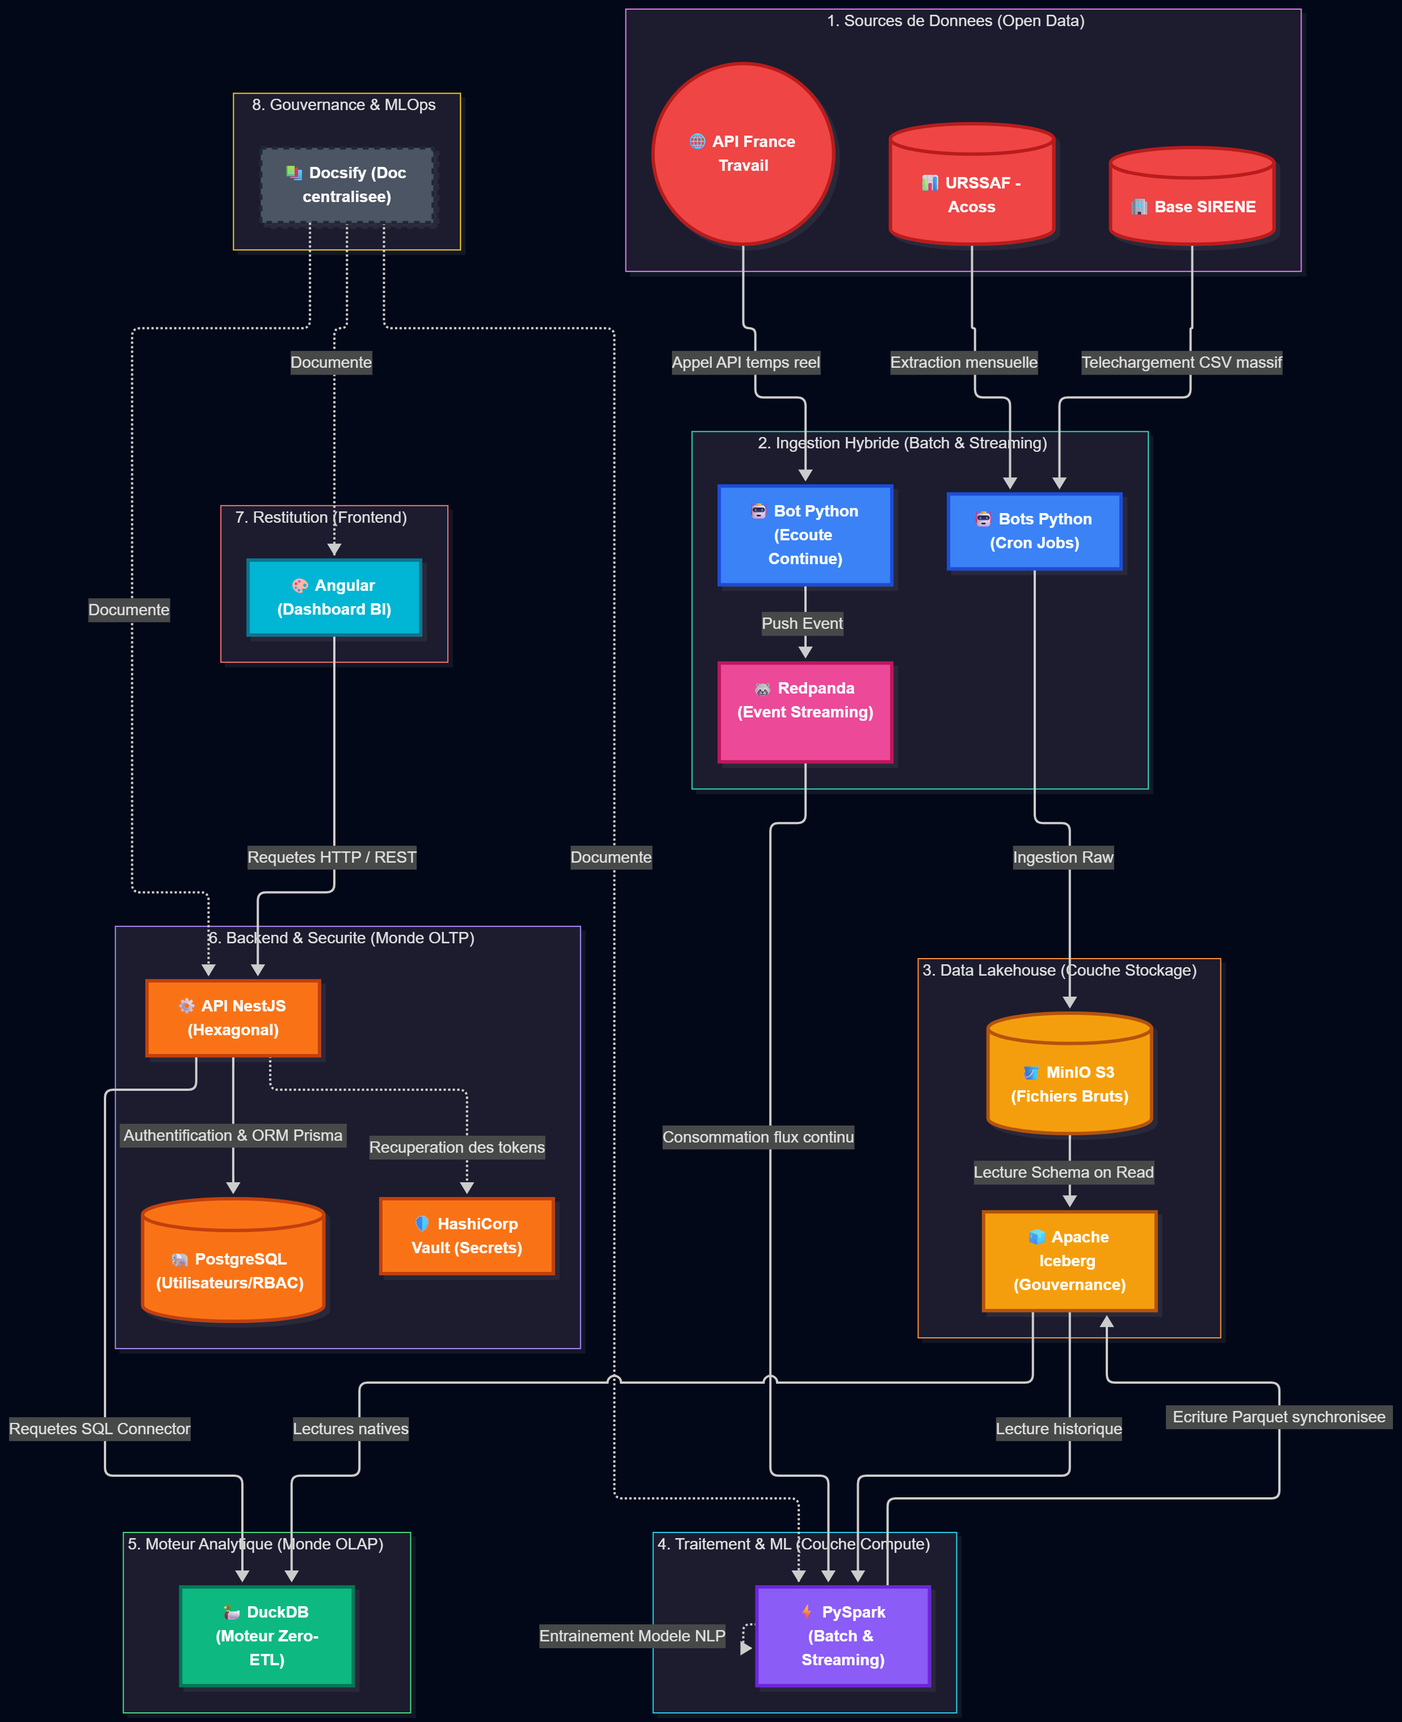
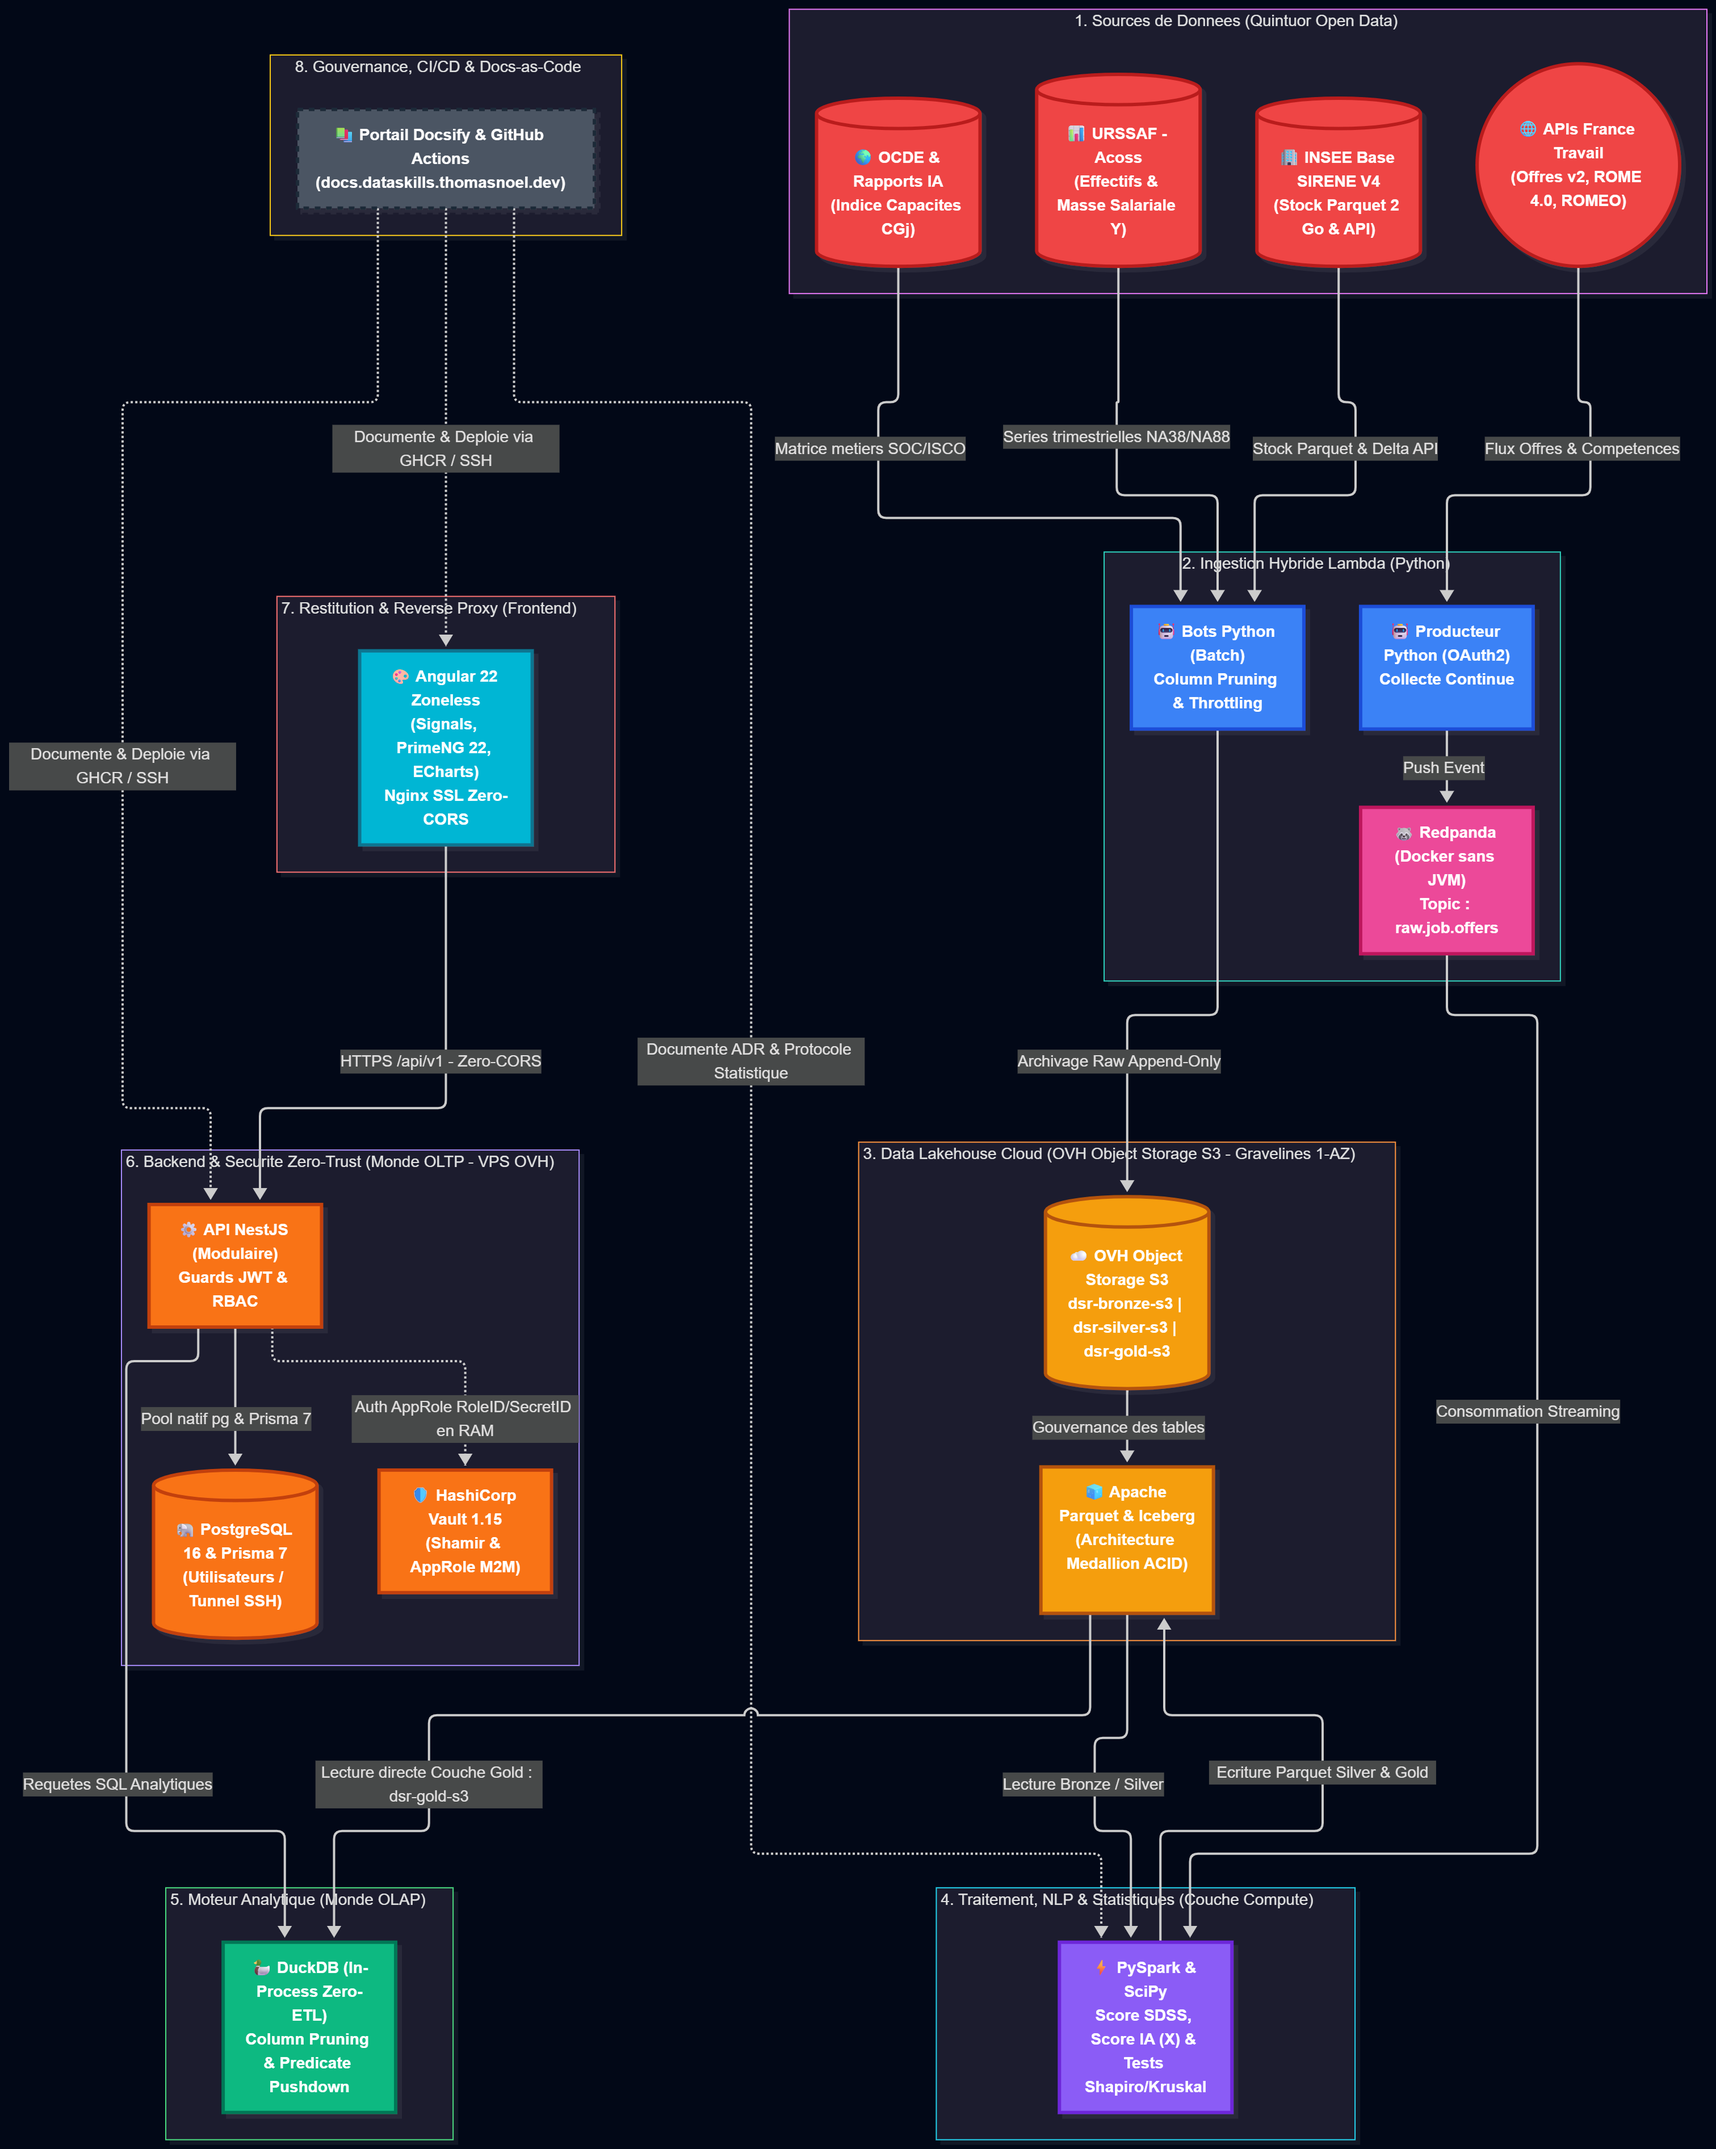
feat(docs): mise à jour du diagramme

diff --git a/docs/architecture/01.vue_ensemble.md b/docs/architecture/01.vue_ensemble.md
@@ -77,89 +77,6 @@ Voici la représentation visuelle du pipeline de mon projet, de l'ingestion de l
 
 ![Schéma Architecture C4](../../assets/img/diagramme_global.png)
 
-```mermaid
-graph TD
-    %% PALETTE DE COULEURS VIBRANTES
-    classDef source fill:#ef4444,stroke:#b91c1c,stroke-width:3px,color:#ffffff,font-weight:bold;
-    classDef ingest fill:#3b82f6,stroke:#1d4ed8,stroke-width:3px,color:#ffffff,font-weight:bold;
-    classDef stream fill:#ec4899,stroke:#be185d,stroke-width:3px,color:#ffffff,font-weight:bold;
-    classDef storage fill:#f59e0b,stroke:#b45309,stroke-width:3px,color:#ffffff,font-weight:bold;
-    classDef compute fill:#8b5cf6,stroke:#6d28d9,stroke-width:3px,color:#ffffff,font-weight:bold;
-    classDef serving fill:#10b981,stroke:#047857,stroke-width:3px,color:#ffffff,font-weight:bold;
-    classDef api fill:#f97316,stroke:#c2410c,stroke-width:3px,color:#ffffff,font-weight:bold;
-    classDef front fill:#06b6d4,stroke:#0e7490,stroke-width:3px,color:#ffffff,font-weight:bold;
-    classDef doc fill:#4b5563,stroke:#1f2937,stroke-width:3px,stroke-dasharray: 5 5,color:#ffffff,font-weight:bold;
-
-    subgraph "1. Sources de Donnees (Quintuor Open Data)"
-        S1[("📊 URSSAF - Acoss\n(Effectifs & Masse Salariale Y)")]:::source
-        S3[("🏢 INSEE Base SIRENE V4\n(Stock Parquet 2 Go & API)")]:::source
-        S4[("🌍 OCDE & Rapports IA\n(Indice Capacites CGj)")]:::source
-        S2(("🌐 APIs France Travail\n(Offres v2, ROME 4.0, ROMEO)")):::source
-    end
-
-    subgraph "2. Ingestion Hybride Lambda (Python)"
-        Bot["🤖 Bots Python (Batch)\nColumn Pruning & Throttling"]:::ingest
-        StreamBot["🤖 Producteur Python (OAuth2)\nCollecte Continue"]:::ingest
-        Redpanda["🦝 Redpanda (Docker sans JVM)\nTopic : raw.job.offers"]:::stream
-    end
-
-    subgraph "3. Data Lakehouse Cloud (OVH Object Storage S3 - Gravelines 1-AZ)"
-        OVHS3[("☁ OVH Object Storage S3\ndsr-bronze-s3 | dsr-silver-s3 | dsr-gold-s3")]:::storage
-        Iceberg["🧊 Apache Parquet & Iceberg\n(Architecture Medallion ACID)"]:::storage
-    end
-
-    subgraph "4. Traitement, NLP & Statistiques (Couche Compute)"
-        Spark["⚡ PySpark & SciPy\nScore SDSS, Score IA (X) & Tests Shapiro/Kruskal"]:::compute
-    end
-
-    subgraph "5. Moteur Analytique (Monde OLAP)"
-        Duck["🦆 DuckDB (In-Process Zero-ETL)\nColumn Pruning & Predicate Pushdown"]:::serving
-    end
-
-    subgraph "6. Backend & Securite Zero-Trust (Monde OLTP - VPS OVH)"
-        API["⚙ API NestJS (Modulaire)\nGuards JWT & RBAC"]:::api
-        PG[("🐘 PostgreSQL 16 & Prisma 7\n(Utilisateurs / Tunnel SSH)")]:::api
-        Vault["🛡 HashiCorp Vault 1.15\n(Shamir & AppRole M2M)"]:::api
-    end
-
-    subgraph "7. Restitution & Reverse Proxy (Frontend)"
-        UI["🎨 Angular 22 Zoneless\n(Signals, PrimeNG 22, ECharts)\nNginx SSL Zero-CORS"]:::front
-    end
-
-    subgraph "8. Gouvernance, CI/CD & Docs-as-Code"
-        Doc["📚 Portail Docsify & GitHub Actions\n(docs.dataskills.thomasnoel.dev)"]:::doc
-    end
-
-    %% Flux Ingestion Batch & Streaming
-    S1 -->|Series trimestrielles NA38/NA88| Bot
-    S3 -->|Stock Parquet & Delta API| Bot
-    S4 -->|Matrice metiers SOC/ISCO| Bot
-    Bot -->|Archivage Raw Append-Only| OVHS3
-
-    S2 -->|Flux Offres & Competences| StreamBot
-    StreamBot -->|Push Event| Redpanda
-    Redpanda -->|Consommation Streaming| Spark
-
-    %% Raffinage Medallion Lakehouse
-    OVHS3 -->|Gouvernance des tables| Iceberg
-    Iceberg -->|Lecture Bronze / Silver| Spark
-    Spark -->|Ecriture Parquet Silver & Gold| Iceberg
-
-    %% Moteur Analytique Zero-ETL
-    Iceberg -->|Lecture directe Couche Gold : dsr-gold-s3| Duck
-
-    %% API comme Chef d'Orchestre
-    UI -->|HTTPS /api/v1 - Zero-CORS| API
-    API -->|Pool natif pg & Prisma 7| PG
-    API -.->|Auth AppRole RoleID/SecretID en RAM| Vault
-    API -->|Requetes SQL Analytiques| Duck
-
-    %% Gouvernance & Documentation
-    Doc -.->|Documente & Deploie via GHCR / SSH| API
-    Doc -.->|Documente & Deploie via GHCR / SSH| UI
-    Doc -.->|Documente ADR & Protocole Statistique| Spark
-```
-
 ---
 
 ## ⚖ 6. Mon Écosystème Applicatif & Ma Propriété Intellectuelle (Choix des Licences)
